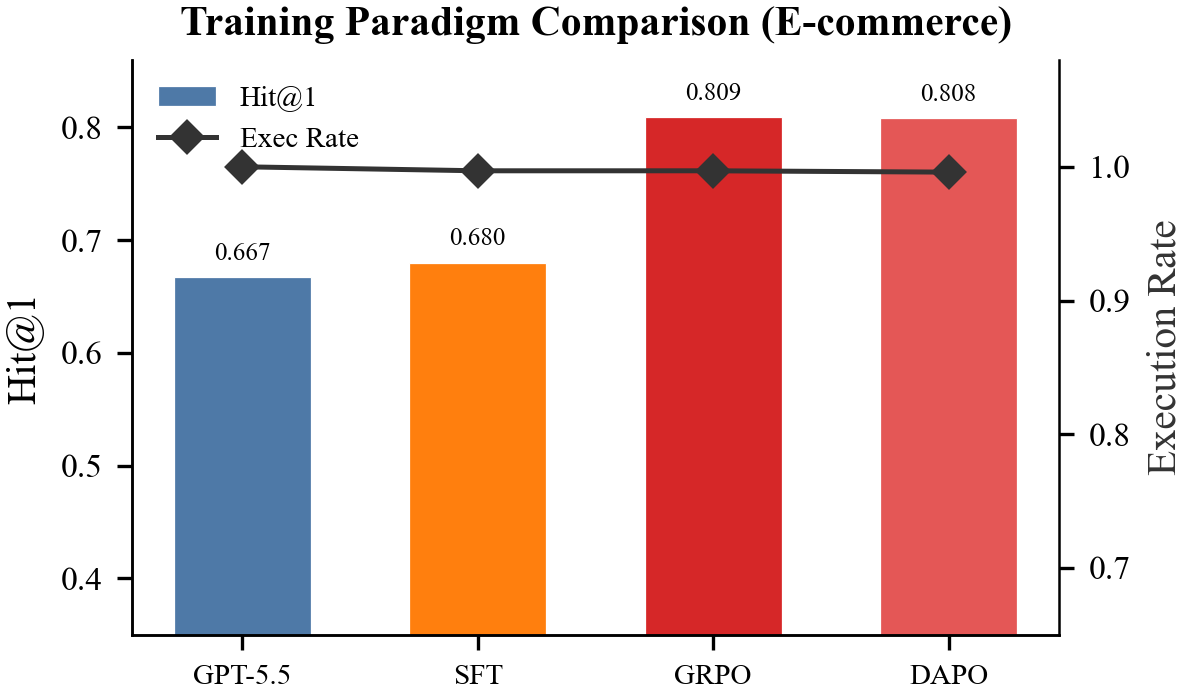
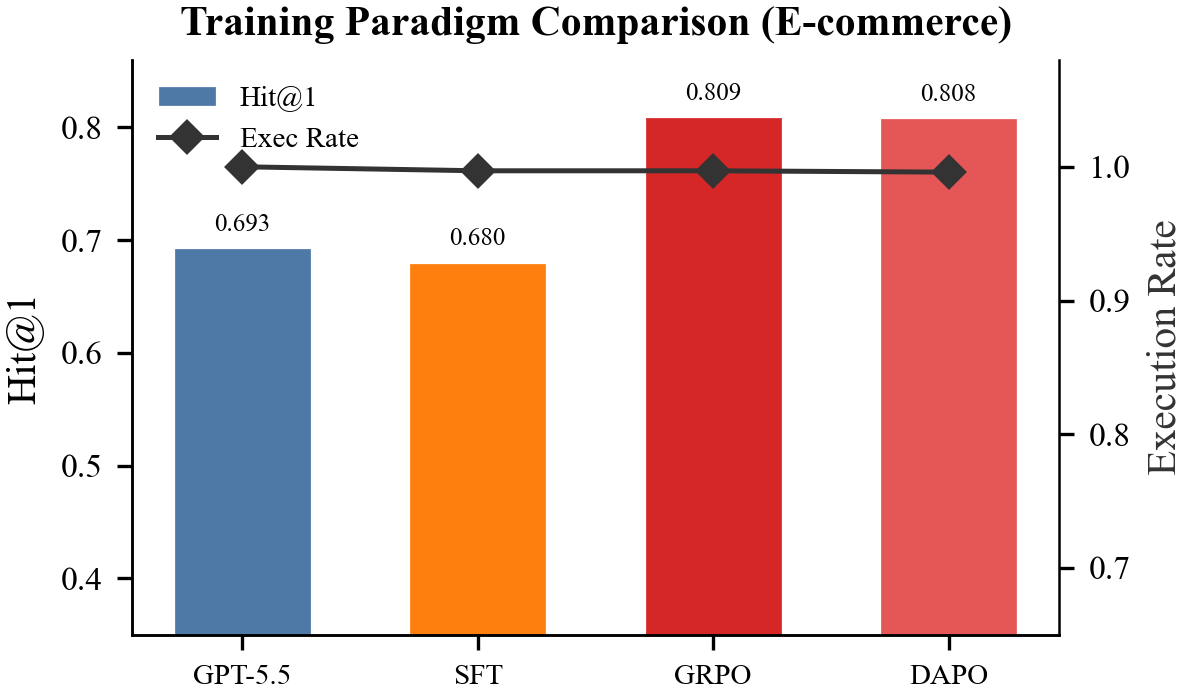
Update GPT-5.5 value in Figure 2

Changed region(s): [[0.1244, 0.3017, 0.2798, 0.4224]]

diff --git a/figures/paper/generate_all_figures.py b/figures/paper/generate_all_figures.py
@@ -898,7 +898,7 @@ def fig_main_email():
 # Override Figure 2 with the latest training paradigm comparison values.
 def fig_fewshot_failure():
     methods = ['GPT-5.5', 'SFT', 'GRPO', 'DAPO']
-    hit1 = [0.667, 0.680, 0.809, 0.808]
+    hit1 = [0.693, 0.680, 0.809, 0.808]
     exec_rate = [1.000, 0.997, 0.997, 0.996]
 
     colors = [LLM_COLOR, SFT_COLOR, OURS_COLOR, OURS_COLOR2]
